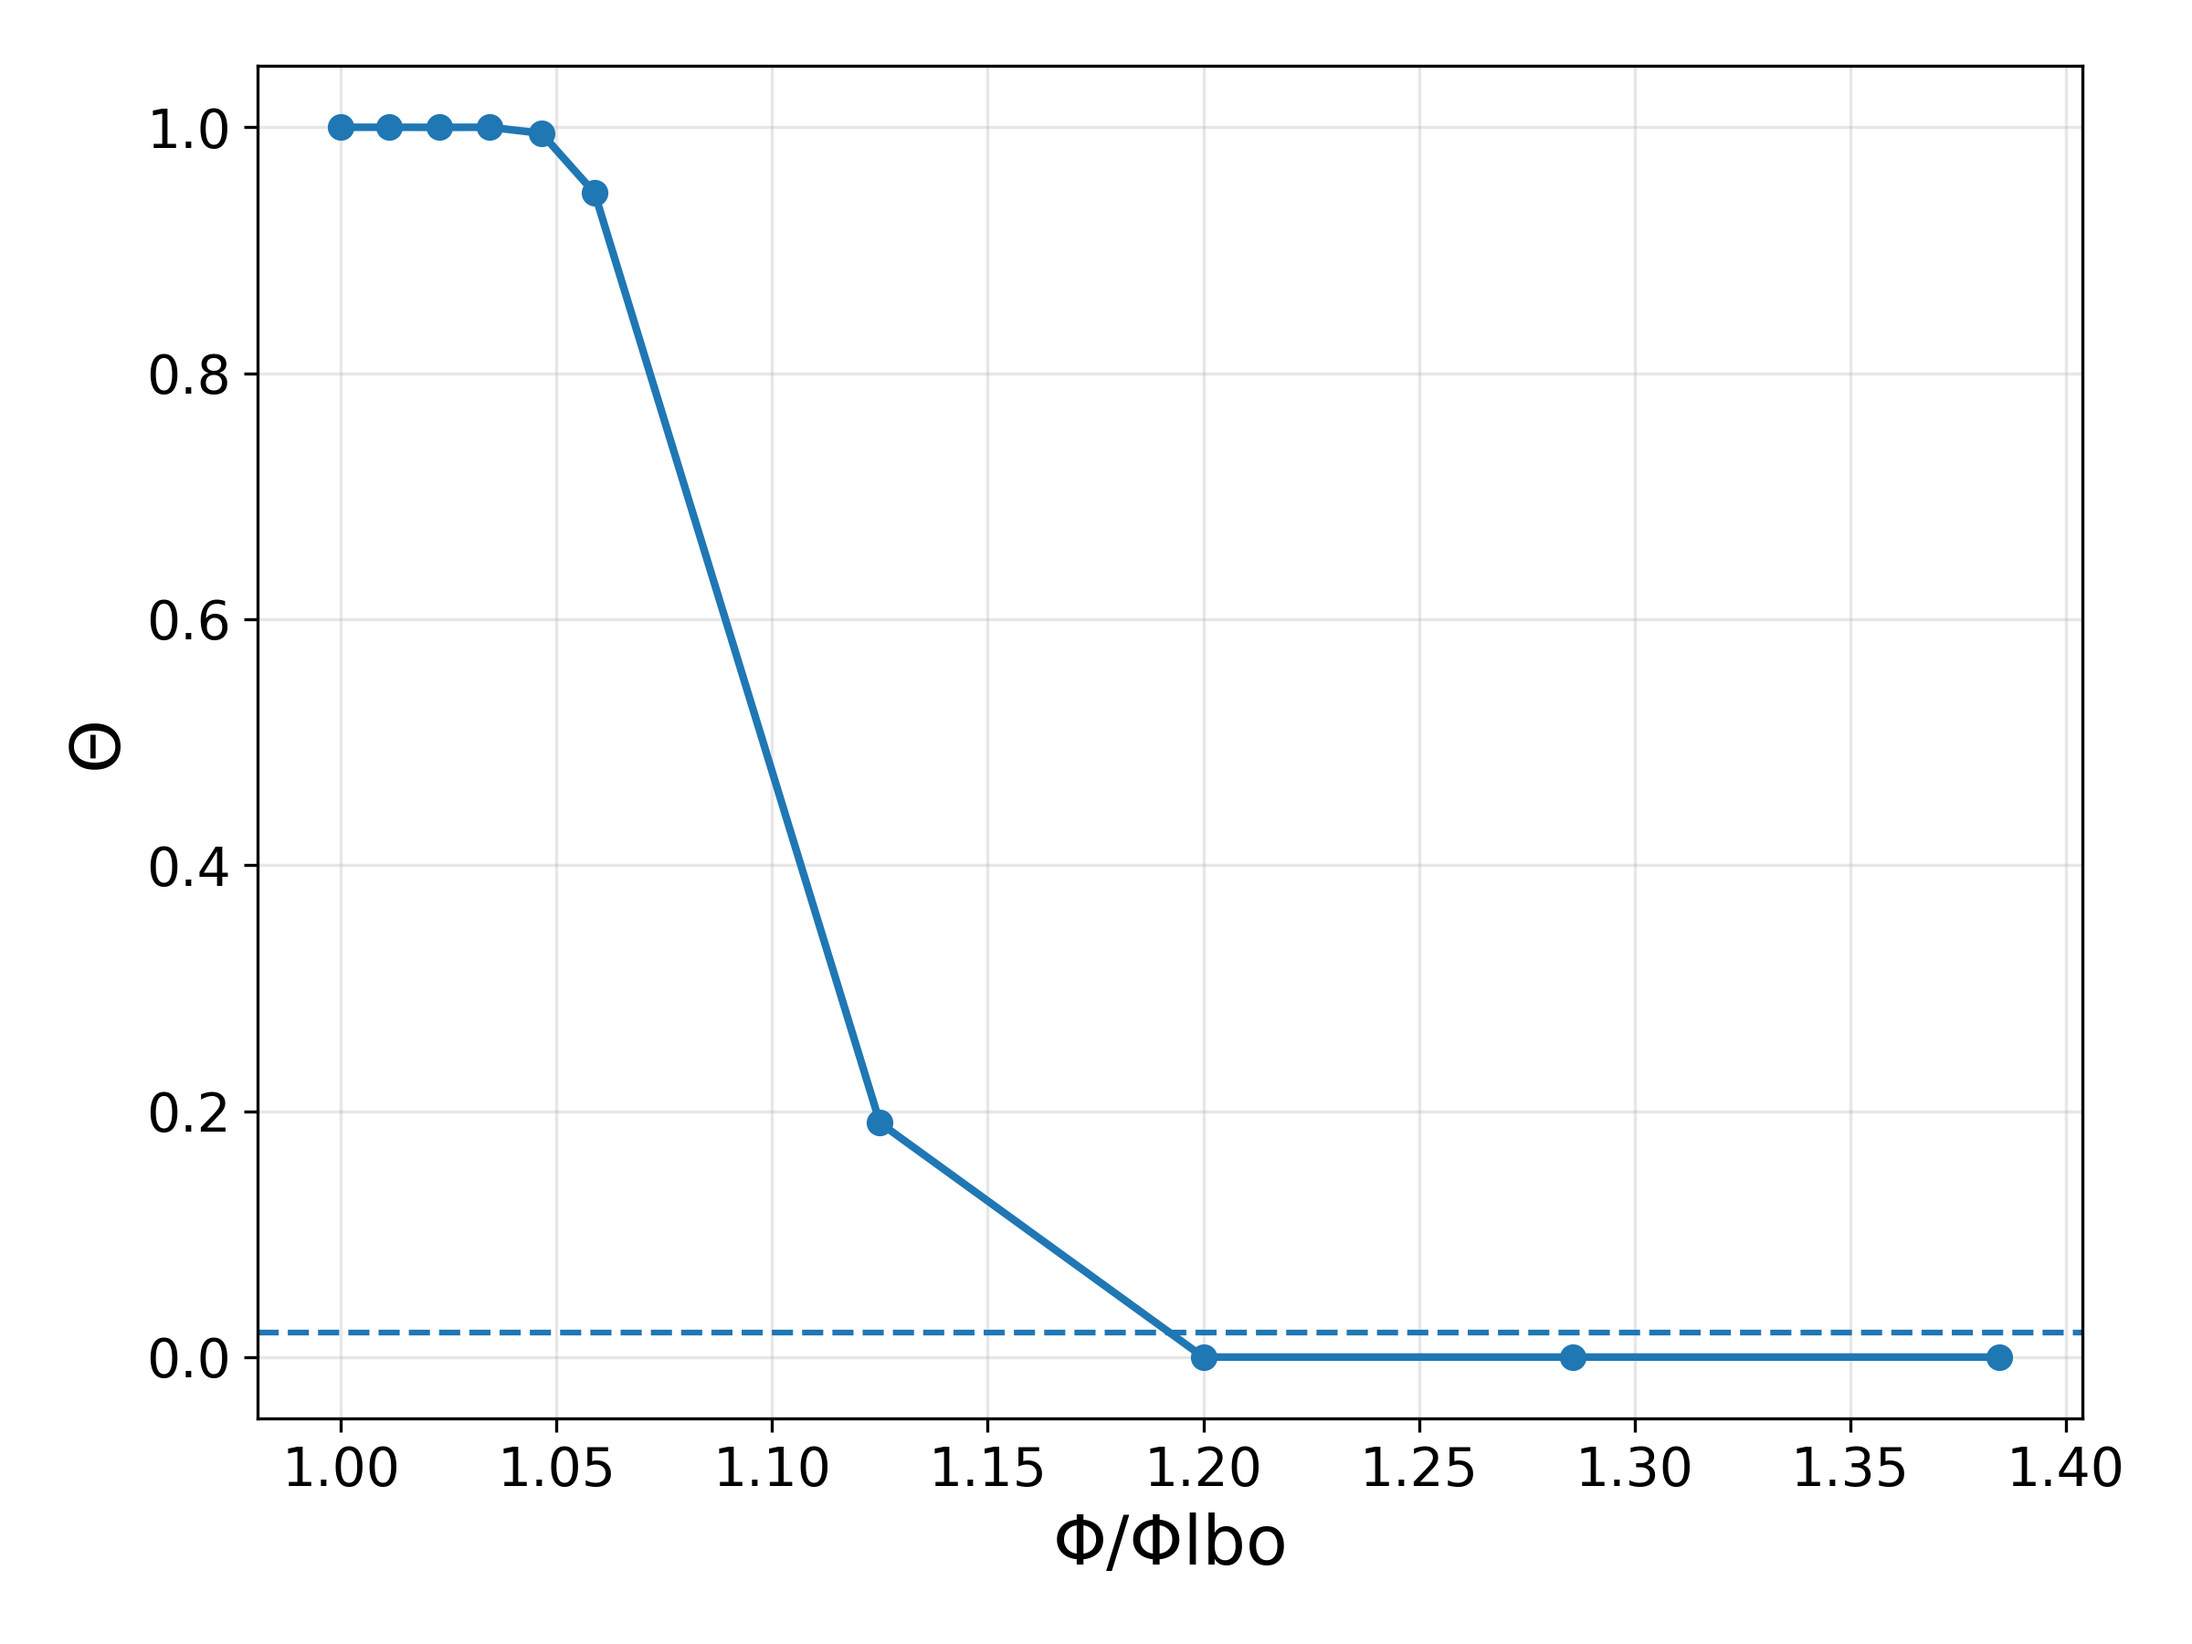
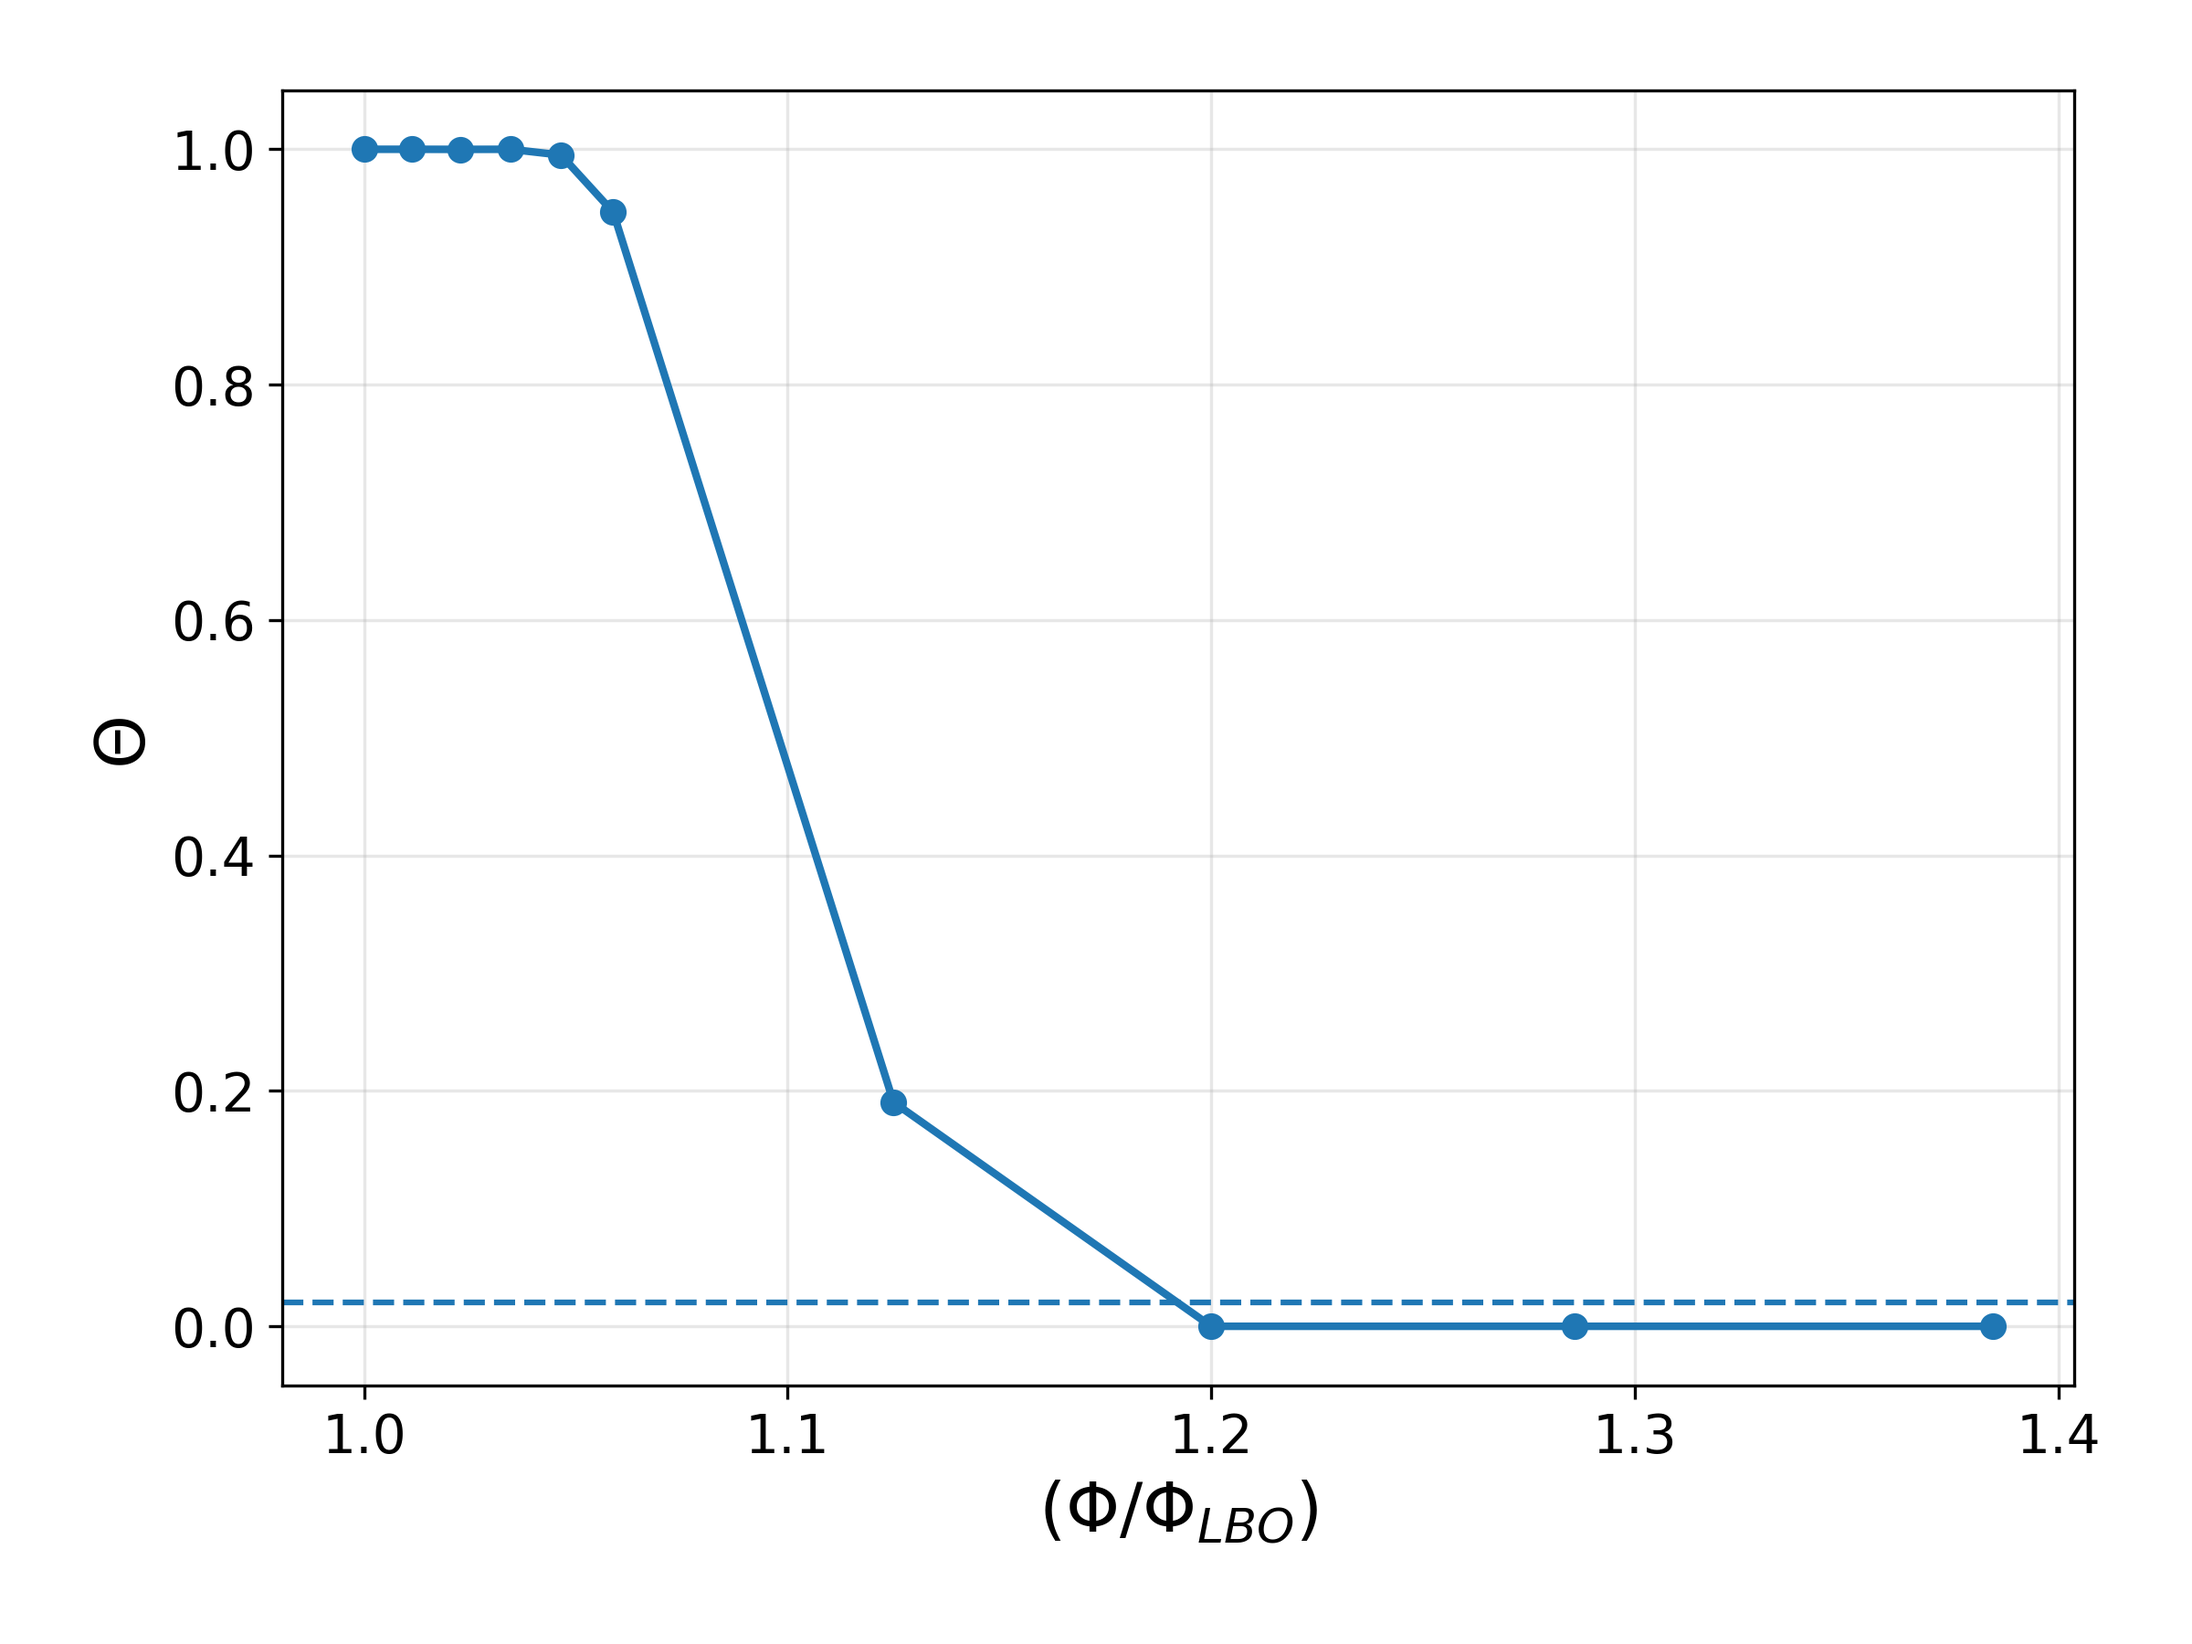
Tweaked autocorrelation code

diff --git a/LBO/Autocorrelation_Graph_Figure_5.py b/LBO/Autocorrelation_Graph_Figure_5.py
@@ -1,11 +1,12 @@
 """
-Autocorrelation plot for LBO (corrected)
+this file is to simulate autocorrelation for LBO (final corrected)
+the graph describes temporal behaviour of the flame signal
 
-Fixes applied:
-- Proper normalization so r(0) = 1
-- No smoothing that distorts zero-lag value
-- Uses short segment for local behaviour
-- Clear and correct implementation
+updated based on prof feedback:
+--> using Excel CORREL style (pearson correlation)
+--> using short segment (2 sec)
+--> removed unstable high lag region
+--> fixed axis label and font size
 """
 
 import pandas as pd
@@ -13,17 +14,16 @@ import matplotlib.pyplot as plt
 import numpy as np
 import os
 
-plt.rcParams.update({
-    "font.size": 22,
-    "axes.labelsize": 22,
-    "xtick.labelsize": 22,
-    "ytick.labelsize": 22,
-    "legend.fontsize": 22
-})
-
 folder_path = "LBO"
 main_file = os.path.join(folder_path, "Data details.xlsx")
 df_details = pd.read_excel(main_file)
+
+# increase font size
+plt.rcParams.update({
+    'font.size': 14,
+    'axes.labelsize': 16,
+    'legend.fontsize': 12
+})
 
 plt.figure(figsize=(10, 6))
 
@@ -36,44 +36,54 @@ for idx in plot_indices:
 
     air_val = row['Air (SLPM)']
     phi_val = row['Equivalence ratio']
-
+    
     file_name = os.path.join(folder_path, f"{int(air_val)}.xlsx")
     df_signal = pd.read_excel(file_name, header=None, names=['Time', 'Amplitude'])
 
-    # sampling frequency
-    dt = df_signal['Time'].iloc[1] - df_signal['Time'].iloc[0]
-    fs = 1 / dt
-
-    # remove mean
+    time = df_signal['Time'].to_numpy()
     signal = df_signal['Amplitude'].to_numpy()
-    signal = signal - np.mean(signal)
+
+    # sampling frequency
+    fs = 1 / (time[1] - time[0])
 
     # use only first 2 seconds
-    N = int(2 * fs)
-    signal = signal[:N]
+    signal = signal[:int(2 * fs)]
 
-    # compute autocorrelation (normalized)
-    corr = np.correlate(signal, signal, mode='full')
-    center = len(corr) // 2
+    # autocorrelation (Excel CORREL style)
+    acf = []
 
-    # normalize → ensures r(0) = 1
-    corr = corr / corr[center]
+    max_lag = 15
+    min_points = 50   # avoid weird tail
 
-    # lag window (30 ms)
-    max_lag = int(0.03 * fs)
-    rxx = corr[center:center + max_lag]
+    for k in range(max_lag + 1):
 
-    lag_time_ms = (np.arange(max_lag) / fs) * 1000
+        if k == 0:
+            x1 = signal
+            x2 = signal
+        else:
+            x1 = signal[:-k]
+            x2 = signal[k:]
 
-    plt.plot(lag_time_ms, rxx, label=f"Φ = {phi_val:.3f}")
+        # stop if too few points
+        if len(x1) < min_points:
+            break
 
-plt.xlabel("Lag Time (ms)", fontsize=22)
-plt.ylabel("Autocorrelation Coefficient", fontsize=22)
+        r = np.corrcoef(x1, x2)[0, 1]
+        acf.append(r)
 
-plt.axhline(0, color='black', linewidth=1, alpha=0.5)
+    acf = np.array(acf)
+    acf = np.nan_to_num(acf)
+
+    lag = np.arange(len(acf))
+
+    plt.plot(lag, acf, label=f"Φ = {phi_val:.3f}")
+
+plt.xlabel("Lag")
+plt.ylabel("Autocorrelation Function")
+
 plt.grid(True, alpha=0.3)
-plt.legend(title="Equivalence Ratio (Φ)", fontsize=16, title_fontsize=16)
+plt.legend(title="Equivalence Ratio (Φ)")
 
 plt.tight_layout()
-plt.savefig("Figure_5_LBO_Autocorrelation_FIXED_again.png", dpi=300)
+plt.savefig("Figure_LBO_Autocorrelation_FINAL.png", dpi=300)
 plt.show()

diff --git a/TAI/Autocorrelation_Limit_cycle_figure_12.py b/TAI/Autocorrelation_Limit_cycle_figure_12.py
@@ -1,6 +1,11 @@
 """
 this file is to simulate autocorrelation for TAI
 the graph describes temporal behaviour of pressure signal
+
+updated:
+--> using Excel CORREL style (pearson correlation)
+--> using short segment (2 sec)
+--> removed unstable high lag region
 """
 
 import numpy as np
@@ -8,11 +13,19 @@ import matplotlib.pyplot as plt
 import pandas as pd
 import os
 
-folder_path = os.path.dirname(os.path.abspath(__file__))
+# variables
+folder_path = "TAI"
 
+# mapping files to Reynolds number
 re_map = {
-    15: 1565.85,
-    40: 4175.60,
+    15: 1565.85, 
+    20: 2087.80, 
+    25: 2609.75, 
+    30: 3131.70, 
+    35: 3653.65, 
+    40: 4175.60, 
+    45: 4697.55, 
+    50: 5219.50, 
     53: 5532.67
 }
 
@@ -25,34 +38,44 @@ for file_num, re_val in re_map.items():
     df = pd.read_excel(file_name, header=None)
     signal = df[0].to_numpy()
 
-    # remove mean
-    signal = signal - np.mean(signal)
+    # sampling frequency (assume uniform time step)
+    # if time column exists, use that instead
+    fs = 44100  # keep same as your experiment
 
-    # compute max lag first (before expensive autocorrelation)
-    fs = 44100  # same as your PSD
-    max_lag = int(0.03 * fs)
+    # use only first 2 seconds
+    signal = signal[:int(2 * fs)]
 
-    # autocorrelation using FFT (much faster than np.correlate)
-    padded_size = 2 ** int(np.ceil(np.log2(len(signal) + max_lag)))
-    fft_signal = np.fft.rfft(signal, n=padded_size)
-    power = np.abs(fft_signal) ** 2
-    autocorr = np.fft.irfft(power)[:len(signal)]
-    
-    rxx = autocorr[:max_lag] / autocorr[0]
+    # autocorrelation
+    acf = []
 
-    # create lag axis
-    lag = np.arange(len(rxx)) / fs * 1000
+    max_lag = 15
+    min_points = 50
 
-    rxx = rxx[:max_lag]
-    lag = lag[:max_lag]
+    for k in range(max_lag + 1):
 
-    plt.plot(lag, rxx, label=f"Re = {re_val:.0f}")
-    print(f"Processed Re = {re_val:.0f}, max autocorr = {rxx[0]:.2f}")
+        if k == 0:
+            x1 = signal
+            x2 = signal
+        else:
+            x1 = signal[:-k]
+            x2 = signal[k:]
 
-plt.xlabel("Lag Time (ms)")
-plt.ylabel("Autocorrelation Coefficient")
+        if len(x1) < min_points:
+            break
 
-plt.axhline(0, color='black', linewidth=1, alpha=0.5)
+        r = np.corrcoef(x1, x2)[0, 1]
+        acf.append(r)
+
+    acf = np.array(acf)
+    acf = np.nan_to_num(acf)
+
+    lag = np.arange(len(acf))
+
+    plt.plot(lag, acf, label=f"Re = {re_val:.0f}")
+
+plt.xlabel("Lag")
+plt.ylabel("Autocorrelation Function")
+
 plt.grid(True, alpha=0.3)
 plt.legend()
 

diff --git a/TAI/NRMS_TAI.py b/TAI/NRMS_TAI.py
@@ -3,6 +3,10 @@ this file is to simulate NRMS for TAI
 the graph describes fluctuation intensity of pressure signal
 
 We plot NRMS vs Reynolds number
+
+updated:
+--> fixed NRMS definition for oscillatory signal
+--> avoids division by near-zero mean
 """
 
 import numpy as np
@@ -25,6 +29,7 @@ re_map = {
     50: 5219.50, 
     53: 5532.67
 }
+
 nrms_values = []
 re_values = []
 
@@ -39,7 +44,8 @@ for file_num, re_val in re_map.items():
     mean_val = np.mean(signal)
     std_val = np.std(signal)
 
-    nrms = std_val / mean_val
+    # FIX: use mean absolute value instead of mean
+    nrms = std_val / np.mean(np.abs(signal))
 
     nrms_values.append(nrms)
     re_values.append(re_val)
@@ -50,6 +56,7 @@ plt.plot(re_values, nrms_values, marker='o')
 
 plt.xlabel("Reynolds Number (Re)")
 plt.ylabel("NRMS")
+
 plt.grid(True, alpha=0.3)
 
 plt.tight_layout()

diff --git a/LBO/Normalized_Cumulative_Distribution_figure_3.py b/LBO/Normalized_Cumulative_Distribution_figure_3.py
@@ -24,11 +24,11 @@ import numpy as np
 import os
 
 plt.rcParams.update({
-    "font.size": 16,
-    "axes.labelsize": 18,
-    "axes.titlesize": 18,
-    "xtick.labelsize": 14,
-    "ytick.labelsize": 14
+    "font.size": 22,
+    "axes.labelsize": 22,
+    "axes.titlesize": 22,
+    "xtick.labelsize": 22,
+    "ytick.labelsize": 22
 })
 
 folder_path = os.path.dirname(__file__)
@@ -56,7 +56,7 @@ plt.plot(df[x_axis_col], theta_values, marker='o', markersize=6, linewidth=2)
 
 plt.axhline(y=0.02, linestyle='--', linewidth=1.5)
 
-plt.xlabel("Φ/Φlbo", fontsize=18)
+plt.xlabel("($\\Phi/\\Phi_{{LBO}}$)", fontsize=18)
 plt.ylabel("Θ", fontsize=18)
 
 plt.xticks(fontsize=14)

diff --git a/LBO/Normalized Cumulative_Duration_of_LBO_Precursor_Events_figure_7_3.py b/LBO/Normalized Cumulative_Duration_of_LBO_Precursor_Events_figure_7_3.py
@@ -58,10 +58,8 @@ for index, row in df.iterrows():
 plt.figure(figsize=(8, 6))
 plt.plot(df[x_axis_col], theta_values, marker='^', color='tab:red', label='Precursor Duration (Θ)')
 
-plt.xlabel("Normalized Equivalence Ratio (Φ/Φ_lbo)")
-plt.ylabel('Normalized Cumulative Duration (Θ)')
-plt.title('Figure 7.3: LBO Precursor Duration vs Equivalence Ratio')
+plt.xlabel("($\\Phi/\\Phi_{{LBO}}$)", fontsize=22)
+plt.ylabel('Θ', fontsize=22)
 plt.grid(True, alpha=0.3)
-plt.legend()
-plt.savefig("Figure_7_3_LBO_Theta_Final.png", dpi=300)
+plt.savefig("Figure_7_3_LBO_Theta_Final_fonted.png", dpi=300)
 plt.show()
